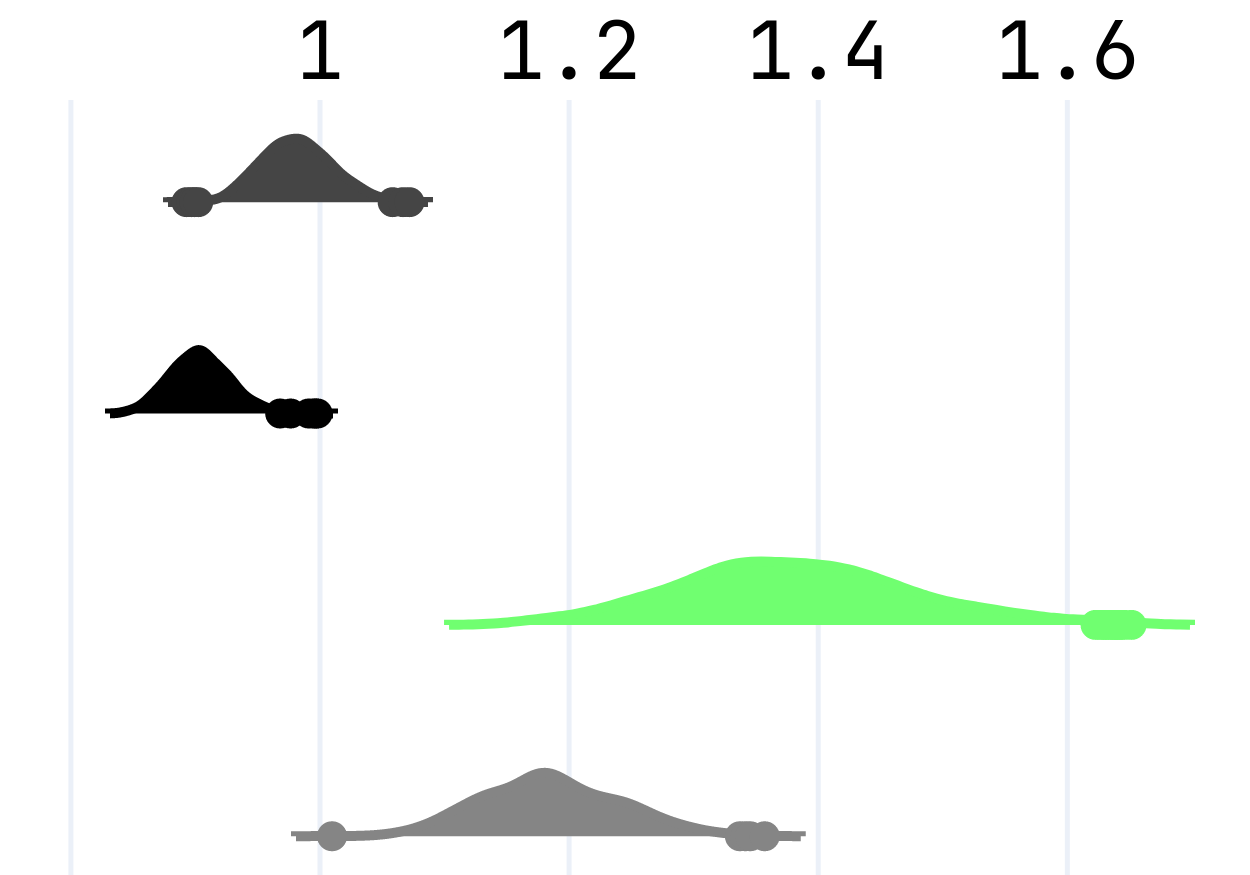
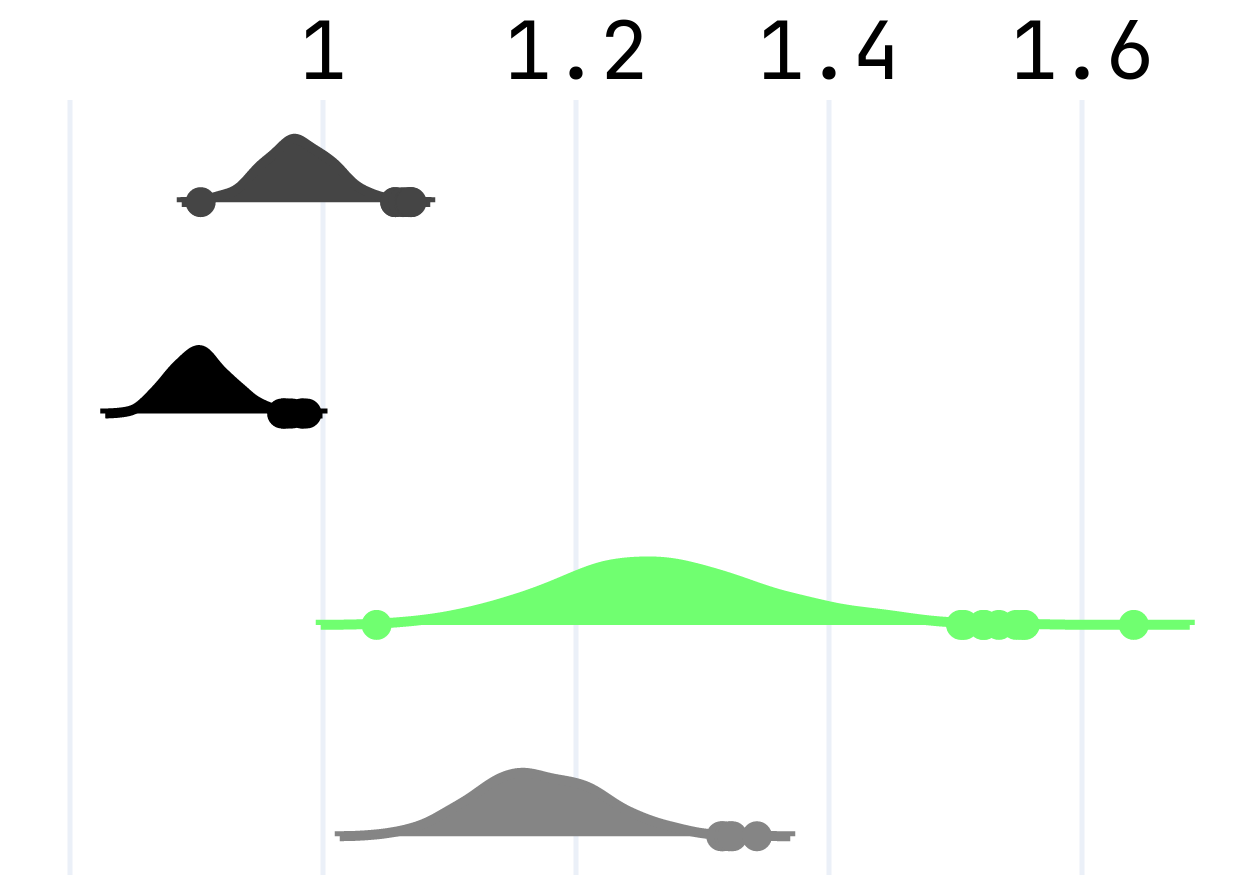
Updates from Overleaf

diff --git a/main.tex b/main.tex
@@ -1,7 +1,8 @@
 \documentclass{article} % for thesis
 % \documentclass[twocolumn,11pt]{article}
-% \usepackage[top=0.5in, bottom=0.5in, left=0.5in, right=0.5in]{geometry}
-\usepackage{spconf}
+\usepackage[top=0.5in, bottom=0.5in, left=0.5in, right=0.5in]{geometry}
+
+% \usepackage{spconf}
 \usepackage[utf8]{inputenc}
 \usepackage{natbib}
 \usepackage{graphicx}
@@ -54,10 +55,10 @@
 \title{Out of Domain Experiments in Sound-Matching}
 \begin{document}
 
-% \author{Amir Salimi, Abram Hindle, Osmar R. Za{\"i}ane}
+\author{Amir Salimi, Abram Hindle, Osmar R. Za{\"i}ane}
 
-\name{Amir Salimi, Abram Hindle, Osmar R. Za{\"i}ane}
-\address{University of Alberta}
+% \name{Amir Salimi, Abram Hindle, Osmar R. Za{\"i}ane}
+% \address{University of Alberta}
 
 \maketitle
 
@@ -193,10 +194,47 @@ This scenario uses \FMMod as the target and \FMModvtwo as the imitator, we also 
   
 \end{figure*}
 
+\begin{figure*}[t]
+  \centering
+  \begin{minipage}[t]{\textwidth}
+    % Left-side labels
+    \begin{minipage}[t]{0.045\textwidth}
+      \footnotesize\raggedleft
+      \vspace{-4.5cm} % align with top of images
+      SIMSE\\[0.4cm]
+      L1\\[0.385cm]
+      JTFS\\[0.365cm]
+      DTW
+    \end{minipage}%
+    \hspace{0.01\textwidth}%
+    % Right side: images + captions
+    \begin{minipage}[t]{0.91\textwidth}
+      \centering
+      \begin{minipage}[t]{0.45\textwidth}
+        \centering
+        \includegraphics[width=\linewidth]{images/npsk_ood_P_Loss_5.png}
+        \vspace{0.3em}
+        \footnotesize Non-delayed Pitch-bend
+      \end{minipage}
+      \hspace{0.015\textwidth}%
+      \begin{minipage}[t]{0.45\textwidth}
+        \centering
+        \includegraphics[width=\linewidth]{images/npsk_ood_P_Loss_4.png}
+        \vspace{0.3em}
+        \footnotesize Delayed Pitch-Bend
+      \end{minipage}
+    \end{minipage}
+  \end{minipage}
+  \caption{Bootstrapped distributions and ranks for non-delayed and randomly delayed pitch-bend programs.}
+  \label{fig:npsk_am_synths}
+\end{figure*}
 \subsection{Delayed Pitch-Bending}
-In this scenario, we create a synthesizer that replicates key characteristics of a chirplet synthesizer, as described by Vahidi \textit{et al.}~\cite{vahidi2023mesostructures}. This synthesizer is a sine wave with a starting pitch. After a time delay of 5000-30000 samples (the sampling rate is set to 48000), an exponential upward pitch bend is applied to the starting pitch. The search parameters here are the starting pitch (30-500 Hz) and the rate at which the power of the exponent increases (1-20 samples at every time step). The time-delay for the pitch-bending onset is selected randomly for each experiment, so it is very unlikely that the imitator would be able to replicate the target's sounds, making this an out-of-domain example.
+In this scenario, we create a synthesizer that replicates some of the key characteristics of a chirplet synthesizer~\cite{vahidi2023mesostructures} \todo{which does what?}. The program here is a sine wave with a steady starting pitch for a random amount of time; after a time delay of 5000-30000 samples (the sampling rate is set to 48000), an exponential upward pitch bend is applied to the starting pitch. The search parameters here are the starting pitch (30-500 Hz) and the rate at which the power of the exponent increases (1-20 samples at every time step). The time-delay for the pitch-bending onset is selected randomly for each experiment, so it is very unlikely that the imitator would be able to replicate the target's sounds, making this an out-of-domain example.
 
-Here, we can define success with P-Loss, that is, how well the \texttt{increase\_speed} and \texttt{starting\_pitch} parameters are approximated despite the delay in the pitch-bending onset. Figure~\ref{fig:npsk_pitch_bend_up_delayed} shows that \JTFS is the best performing loss function, which is consistent with the previous findings by Vahidi \textit{et al.}~\cite{vahidi2023mesostructures}.
+Here, we can define success with P-Loss, that is, how well the \texttt{increase\_speed} and \texttt{starting\_pitch} parameters are approximated despite the delay in the pitch-bending onset. Figure~\ref{fig:npsk_pitch_bend_up_delayed} shows that \JTFS is the best performing loss function, which is consistent with the previous findings by Vahidi \textit{et al.}~\cite{vahidi2023mesostructures}. 
+
+An interesting follow-up experiment conducted was the \textit{in-domain} comparison of pitch-bending synthesizers \textit{without} delay. This is identical to the delayed pitch-bending experiment but setting the delay variable $\delta=0$. 
+
 
 \begin{lstlisting}[escapeinside={(*}{*)},caption={\PitchBendUp program. when an instance of the synthezier is created, $\delta$ is randomly assigned a value between 5000-30000 samples}, label={lst:pitchbendup},language=Faust,float,floatplacement=!H,xleftmargin=1em,xrightmargin=0.5em,firstnumber=0,aboveskip=0em, belowskip=-1em]
 import("stdfaust.lib");
